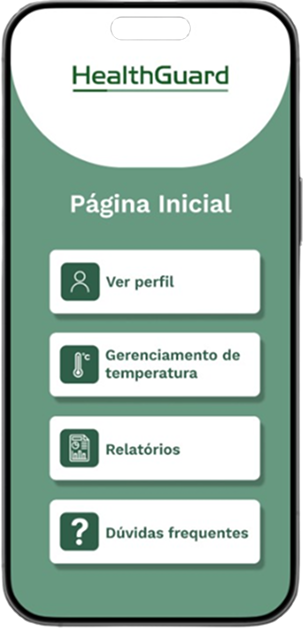
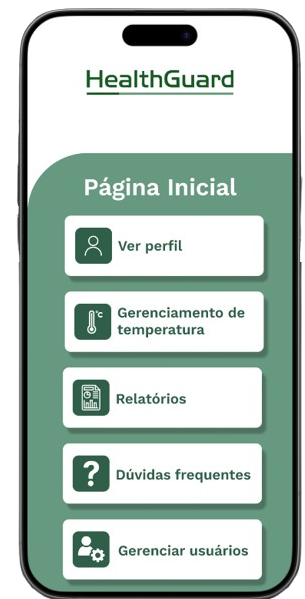
alterações finais

diff --git a/index.html b/index.html
@@ -20,19 +20,25 @@
         </nav>
     </header>
 
+    
     <section class="hero">
-        <div class="hero-text">
-            <h2>Sua saúde e segurança na palma da mão</h2>
-            <p>Acompanhe relatórios, gerencie usuários e controle dados de forma simples e segura</p>
-            <button class="btn-download">Baixar agora</button>
-            <button class="btn-info">Saiba mais</button>
-        </div>
-        <div class="hero-image">
-            <img src="./img/tela-inicial.png" alt="HealthGuard App">
+        <div class="hero-content">
+            <div class="hero-text">
+                <img class="logo-variavel" src="./img/logo-variavel.png" alt="">
+                <h2>Sua saúde e segurança na palma da mão</h2>
+                <p>Acompanhe relatórios, gerencie usuários e controle dados de forma simples e segura</p>
+                <div class="botoes-hero">
+                    <button class="btn-download"><a href="https://play.google.com/store/games?hl=pt_BR">Baixar agora</a></button>
+                    <button class="btn-info">Saiba mais</button>
+                </div>
+            </div>
+            <div class="hero-image">
+                <img src="./img/tela-freezer.png" alt="HealthGuard App">
+            </div>
         </div>
     </section>
 
-    <section id="funcionalidades" class="features">
+    <section id="funcionalidades01" class="features">
         <div class="feature-card">
             <h3>Gerenciar usuários</h3>
             <p>Cadastre, edite e organize facilmente seus usuários</p>
@@ -41,7 +47,10 @@
             <h3>Controle de temperatura</h3>
             <p>Monitore temperaturas e configure alertas automáticos</p>
         </div>
-        <div class="feature-card">
+    </section>
+
+    <section id="funcionalidades01" class="features">
+         <div class="feature-card">
             <h3>Relatórios detalhados</h3>
             <p>Visualize dados completos e exporte relatórios</p>
         </div>
@@ -50,22 +59,23 @@
             <p>Encontre respostas rápidas para suas perguntas</p>
         </div>
     </section>
+       
+    </section>
 
     <section id="screenshots" class="screenshots">
         <img src="./img/pagina-inicial.png" alt="Página Inicial">
         <img src="./img/tela-ralatorio.png" alt="Tela de Relatórios">
-        <img src="./img/tela-grafico.png" alt="Tela de Gráficos">
+        <img src="./img/tela-duvida.png" alt="Tela de Duvida">
     </section>
 
     <section id="faq" class="faq">
-        <button>Como redefinir senha?</button>
-        <button>O aplicativo é seguro?</button>
+        <button><img id="icon-instagram" class="alinha-icon" src="./img/icon-instagram.png" alt=""><a href="https://www.instagram.com/health._guard/">Instagram</a></button>
+        <button><img class="alinha-icon" src="./img/icon-internet.png" alt=""><a href="https://sp.senai.br/unidade/taubate/">SENAI</a></button>
     </section>
 
     <footer id="contato">
         <p>Pronto para simplificar sua gestão?</p>
-        <p><a href="mailto:healthguard@gmail.com">healthguard@gmail.com</a></p>
-        <p><a href="#">Baixe o App</a></p>
+        <p><a href="mailto:health.9guard@gmail.com">health.9guard@gmail.com</a></p>
         <p>© 2025 HealthGuard - Todos os direitos reservados</p>
     </footer>
 </body>

diff --git a/css/style.css b/css/style.css
@@ -16,11 +16,12 @@ header {
     justify-content: space-between;
     align-items: center;
     padding: 20px 50px;
-    background-color: white;
-    border-bottom: 1px solid #e0e0e0;
+    background-color: #1b3c1a;
+    border-bottom: 1px solid #2E6B5B;
     position: sticky;
     top: 0;
     z-index: 1000;
+    height: 80px;
 }
 
 .logo {
@@ -41,7 +42,7 @@ header {
 nav a {
     margin-left: 25px;
     text-decoration: none;
-    color: #1b3c1a;
+    color: #ffffff;
     font-weight: 500;
 }
 
@@ -54,13 +55,23 @@ nav a {
 }
 
 .hero-text {
+    display: flex;
     max-width: 50%;
+    justify-content: center;
+    flex-direction: column;
 }
 
 .hero-text h2 {
     font-size: 2em;
     margin-bottom: 20px;
     color: #2E6B5B;
+}
+
+.hero .logo-variavel img{
+    max-width: 50%;
+    padding-bottom: 20px;
+    width: 50px;
+    height: 60px;
 }
 
 .hero-text p {
@@ -78,34 +89,60 @@ nav a {
 
 .btn-download {
     background-color: #2E6B5B;
-    color: white;
+    width: 150px;
+}
+
+.btn-download a{
+   text-decoration: none;
+   color: white;
 }
 
 .btn-info {
     background-color: white;
     color: #2E6B5B;
     border: 1px solid #1b3c1a;
+    width: 150px;
+}
+
+.botoes-hero{
+    width: 100%;
+    display: flex;
+    justify-content: center;
 }
 
 .hero-image img {
     max-width: 300px;
     border-radius: 20px;
+    padding-bottom: 75px;
+}
+
+.hero-content{
+    display: flex;
+    justify-content: center;
+    width: 100%;
+    align-items: center;
+    gap: 50px;
 }
 
 /* Features */
 .features {
-    display: grid;
-    grid-template-columns: repeat(4, 1fr);
-    gap: 20px;
-    padding: 50px;
+    display: flex;
+    justify-content: center;
+    grid-template-columns: repeat(2, 3fr);
+    gap: 100px;
+    padding: 25px;
     text-align: center;
+}
+#funcionalidades01 .funcionalidades02{
+    display: flex;
 }
 
 .feature-card {
-    background-color: #f4fff9a8;
+    background-color: #e0f0e5;
     padding: 20px;
     border-radius: 10px;
     box-shadow: 0 3px 6px rgba(0,0,0,0.05);
+    width: 300px;
 }
 
 .feature-card h3 {
@@ -142,6 +179,18 @@ nav a {
     border-radius: 10px;
     cursor: pointer;
     font-weight: 500;
+}
+
+.faq a{
+    text-decoration: none;
+    color: #1b3c1a;
+}
+
+.alinha-icon{
+    width: 30px;
+    padding-right: 10px;
+    vertical-align: middle;
+    color: #1b3c1a;
 }
 
 /* Footer */
